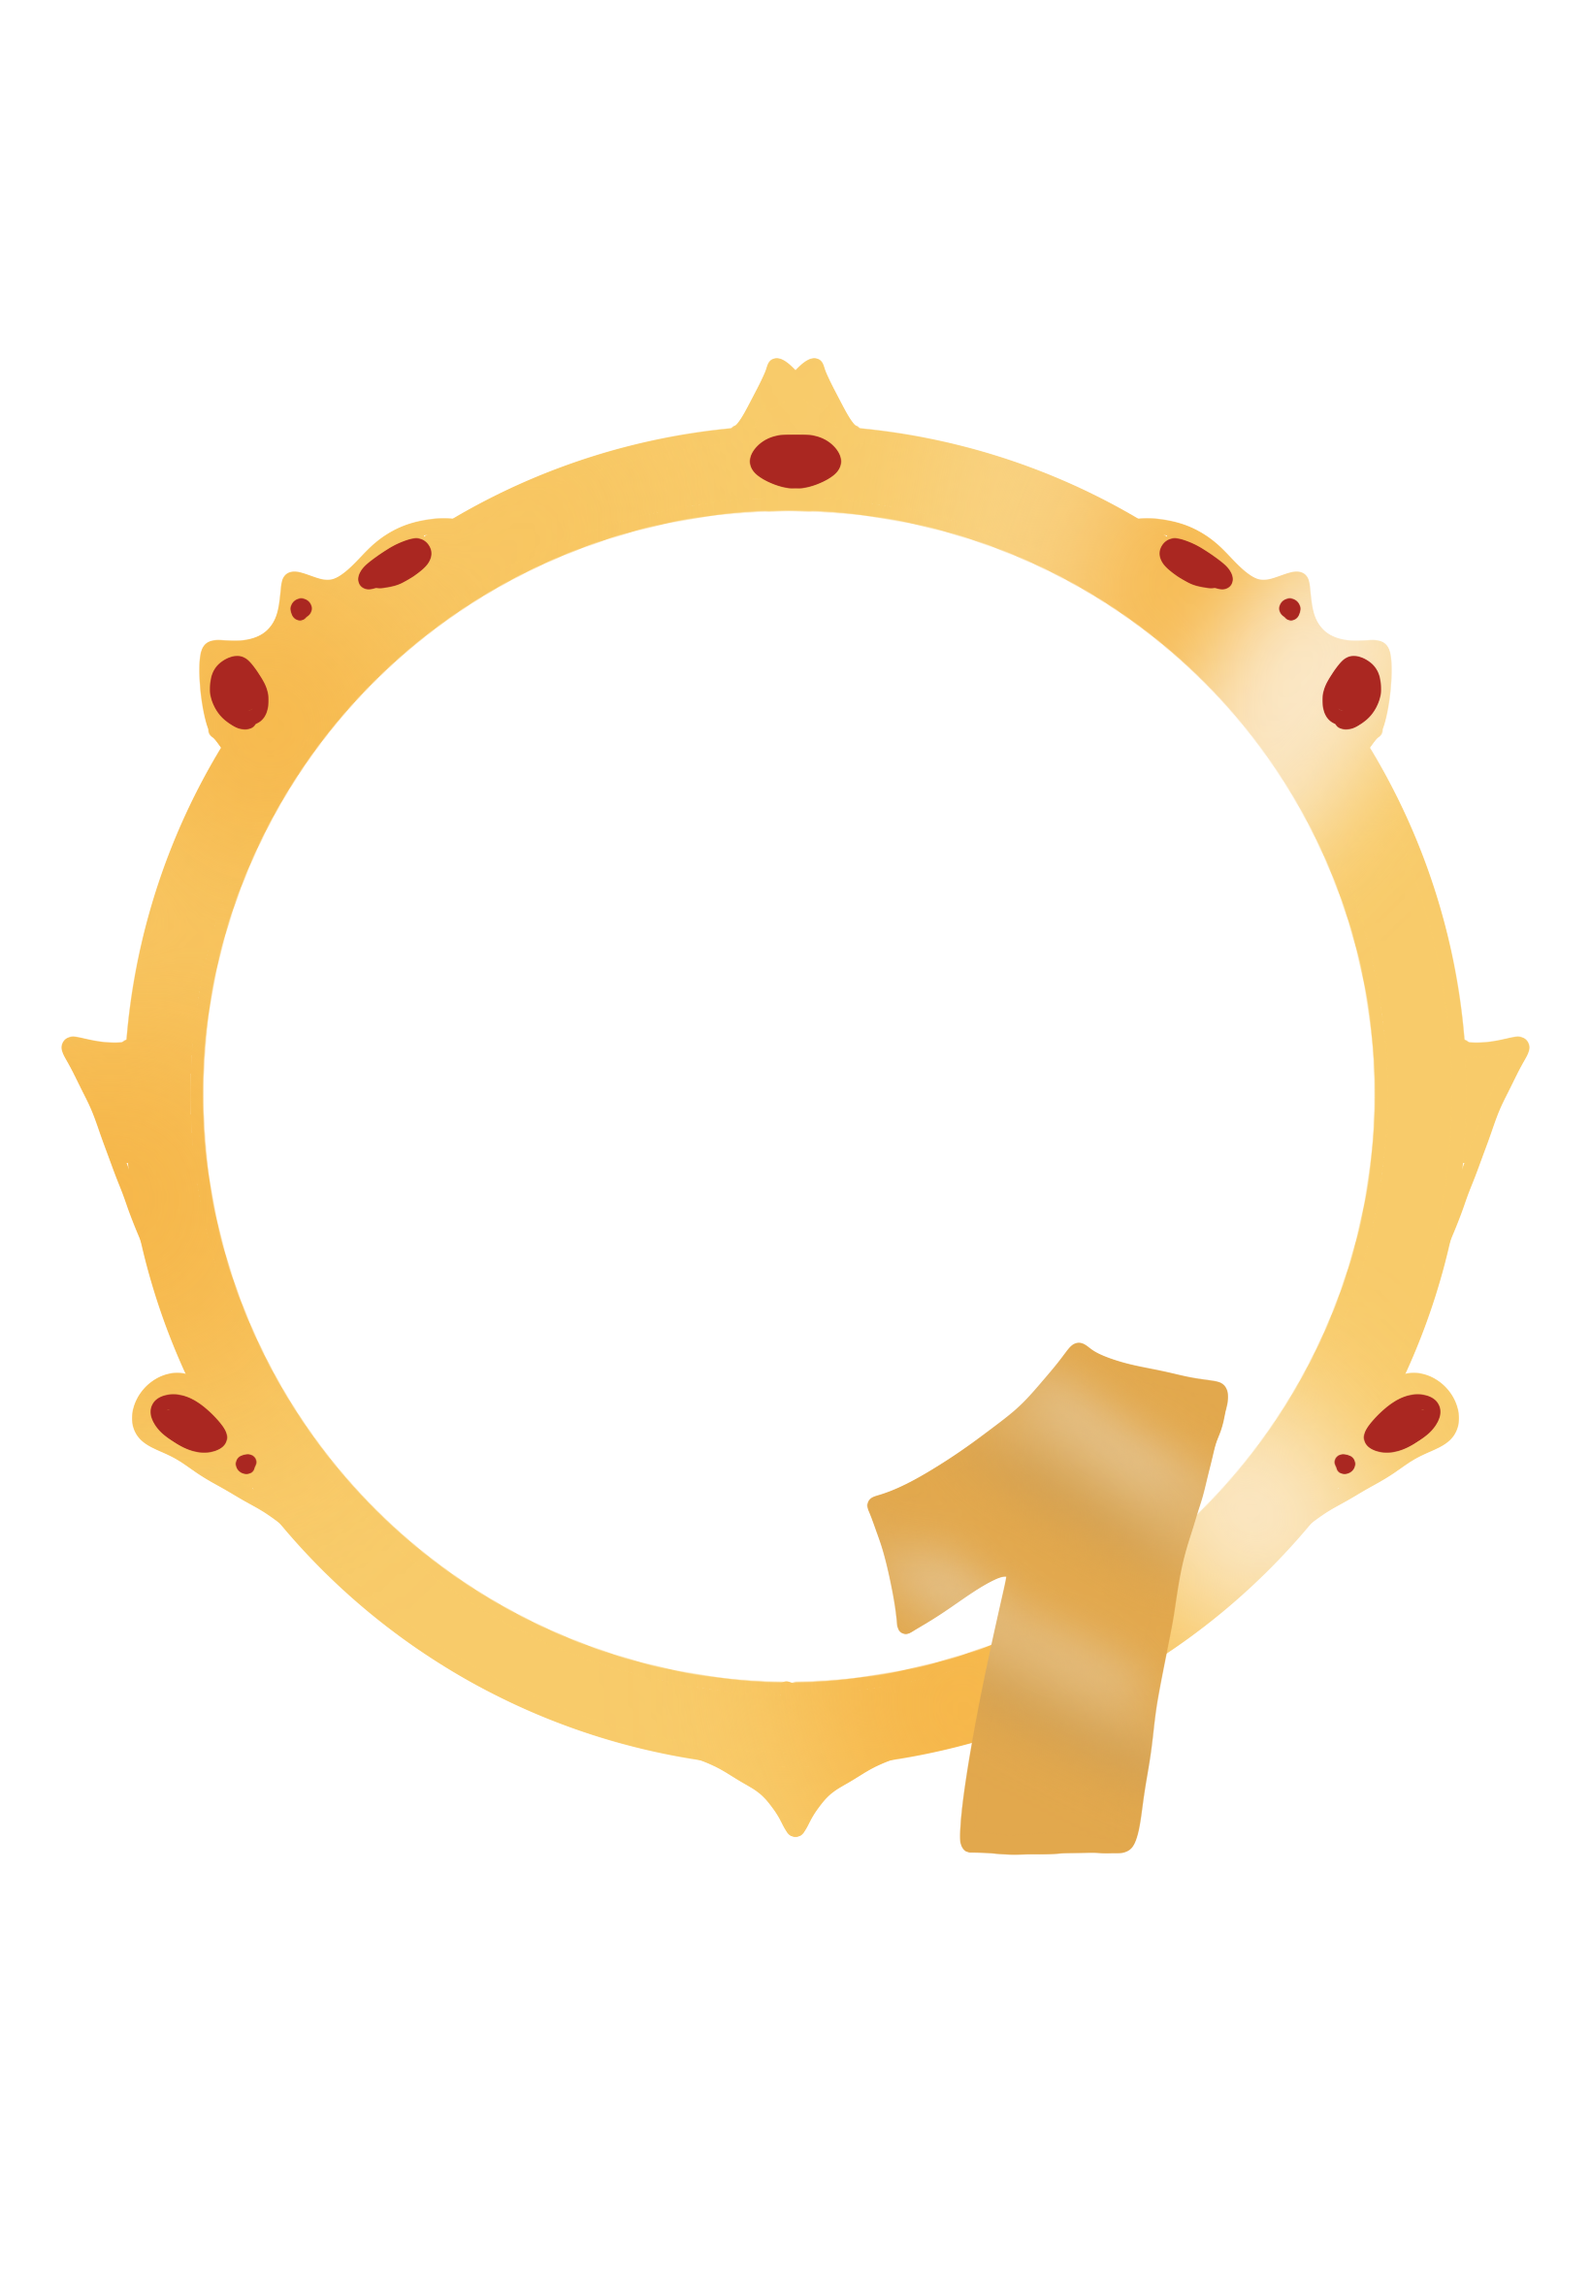
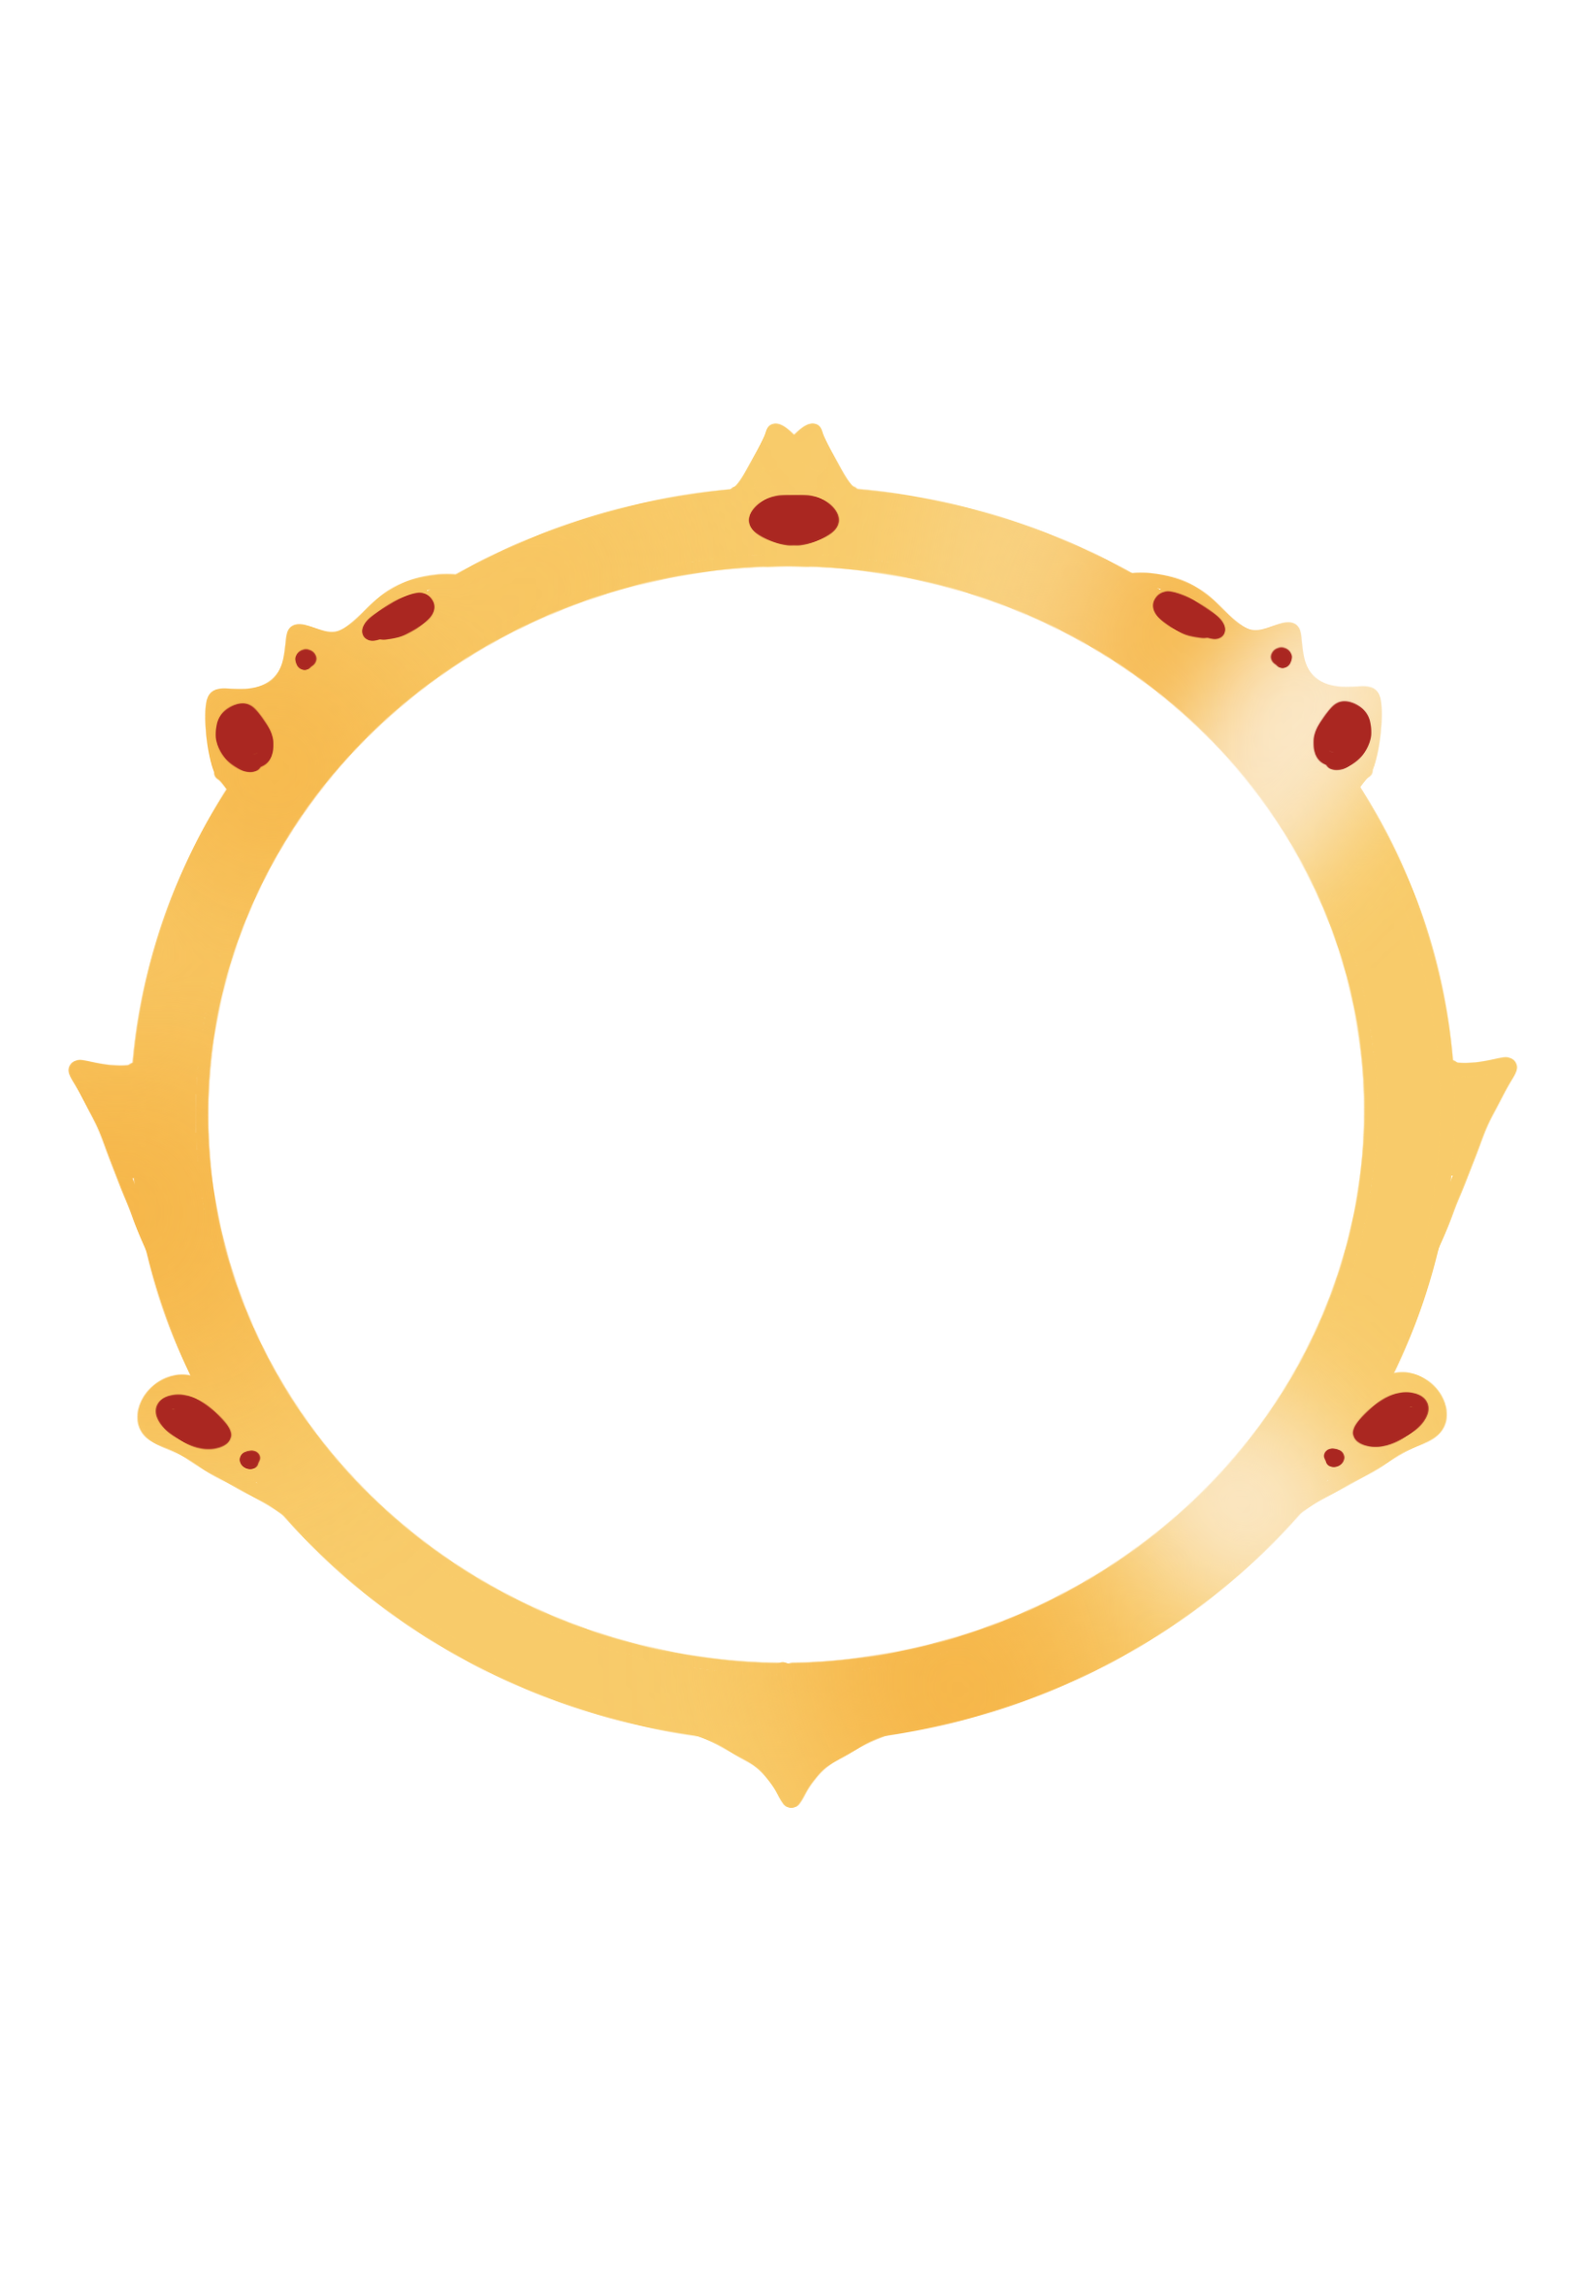
teste de borda

diff --git a/slango_app/lib/perfil/perfil_screen.dart b/slango_app/lib/perfil/perfil_screen.dart
@@ -395,19 +395,16 @@ class _PerfilScreenState extends State<PerfilScreen> {
                 if (MolduraRank.caminhoParaPosicao(_posicaoRank) != null)
                   Positioned.fill(
                     child: IgnorePointer(
-                      child: Transform.translate(
-                        // <-- AJUSTE AQUI A POSIÇÃO (x, y) DA BORDA
-                        offset: const Offset(4, 4),
-                        child: Transform.scale(
-                          // <-- AJUSTE AQUI A ESCALA/TAMANHO DA BORDA
-                          scale: 2.0,
-                          child: Image.asset(
-                            MolduraRank.caminhoParaPosicao(_posicaoRank)!,
-                            // <-- AJUSTE AQUI A LARGURA/ALTURA DA MOLDURA
-                            width: 110,
-                            height: 110,
-                            fit: BoxFit.contain, // em volta, sem cobrir o rosto
-                          ),
+                      
+                      child: Transform.scale(
+                        // <-- AJUSTE AQUI A ESCALA/TAMANHO DA BORDA
+                        scale: 2.0,
+                        child: Image.asset(
+                          MolduraRank.caminhoParaPosicao(_posicaoRank)!,
+                          // <-- AJUSTE AQUI A LARGURA/ALTURA DA MOLDURA
+                          width: 110,
+                          height: 110,
+                          fit: BoxFit.contain, // em volta, sem cobrir o rosto
                         ),
                       ),
                     ),

diff --git a/slango_app/lib/perfil/ranking/rankingScreen.dart b/slango_app/lib/perfil/ranking/rankingScreen.dart
@@ -387,19 +387,15 @@ class _RankingScreenState extends State<RankingScreen> {
               if (MolduraRank.caminhoParaPosicao(posicao) != null)
                 Positioned.fill(
                   child: IgnorePointer(
-                    child: Transform.translate(
-                      // <-- AJUSTE AQUI A POSIÇÃO (x, y) DA BORDA DO PÓDIO
-                      offset: const Offset(4, 4),
-                      child: Transform.scale(
-                        // <-- AJUSTE AQUI A ESCALA/TAMANHO DA BORDA DO PÓDIO
-                        scale: 2.0,
-                        child: Image.asset(
-                          MolduraRank.caminhoParaPosicao(posicao)!,
-                          // <-- AJUSTE AQUI A LARGURA/ALTURA DA MOLDURA DO PÓDIO
-                          width: tamanhoAvatar * scale,
-                          height: tamanhoAvatar * scale,
-                          fit: BoxFit.contain,
-                        ),
+                    child: Transform.scale(
+                      // <-- AJUSTE AQUI A ESCALA/TAMANHO DA BORDA DO PÓDIO
+                      scale: 2.0,
+                      child: Image.asset(
+                        MolduraRank.caminhoParaPosicao(posicao)!,
+                        // <-- AJUSTE AQUI A LARGURA/ALTURA DA MOLDURA DO PÓDIO
+                        width: tamanhoAvatar * scale,
+                        height: tamanhoAvatar * scale,
+                        fit: BoxFit.contain,
                       ),
                     ),
                   ),
